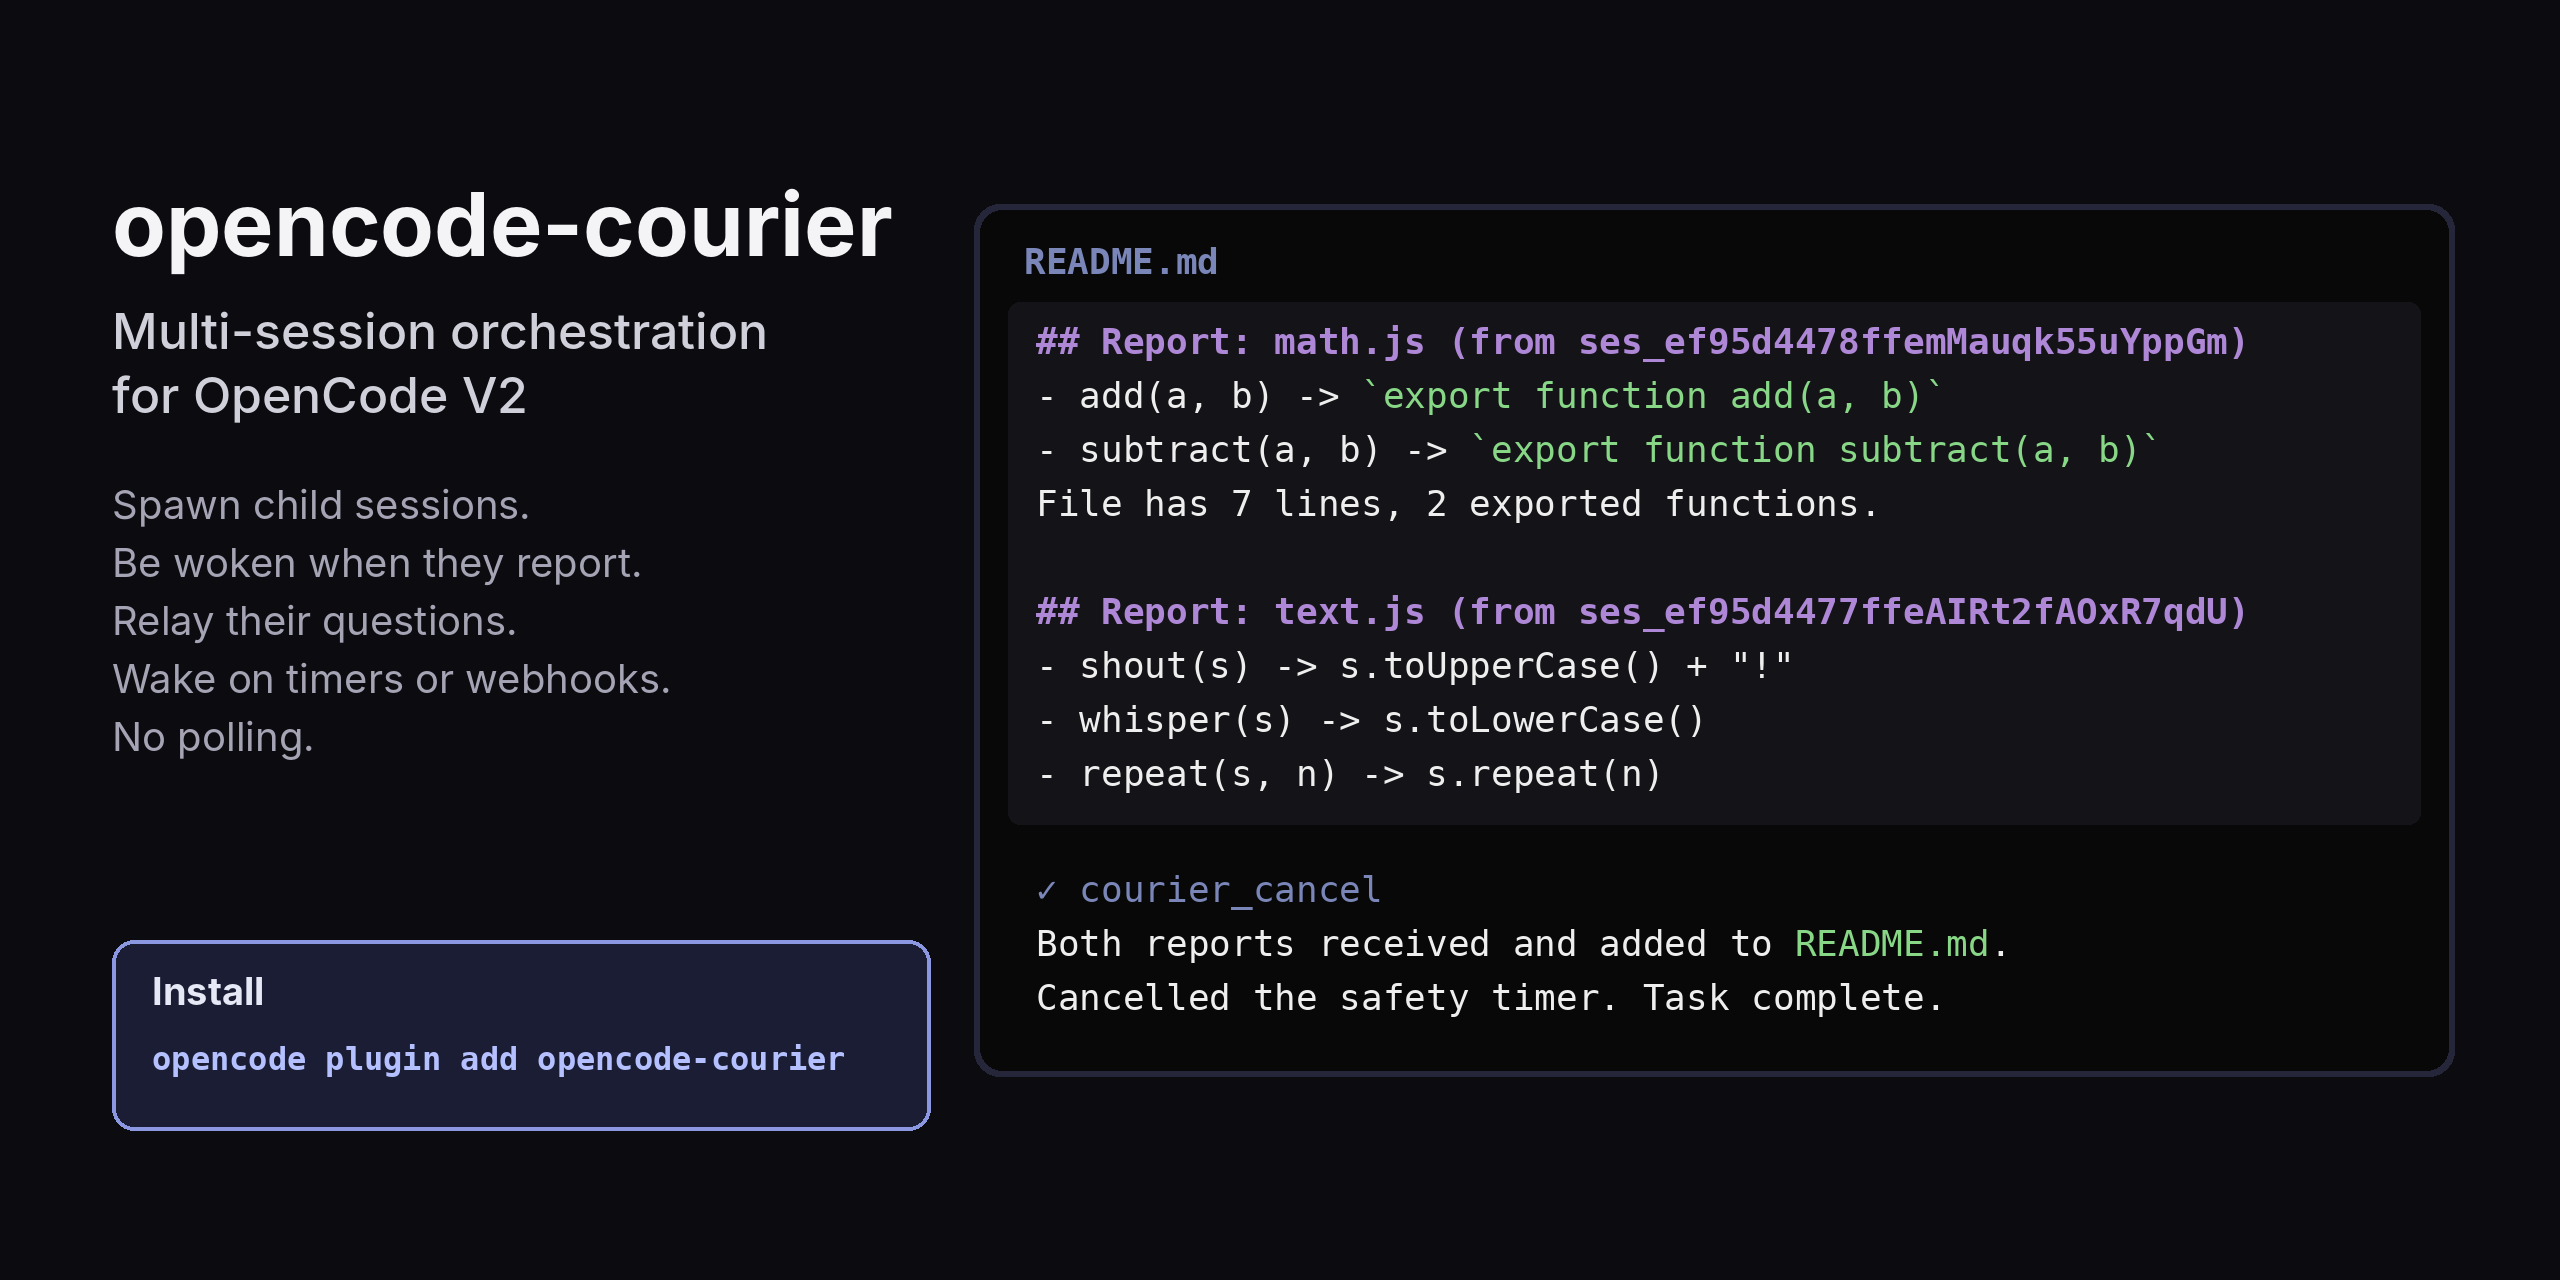
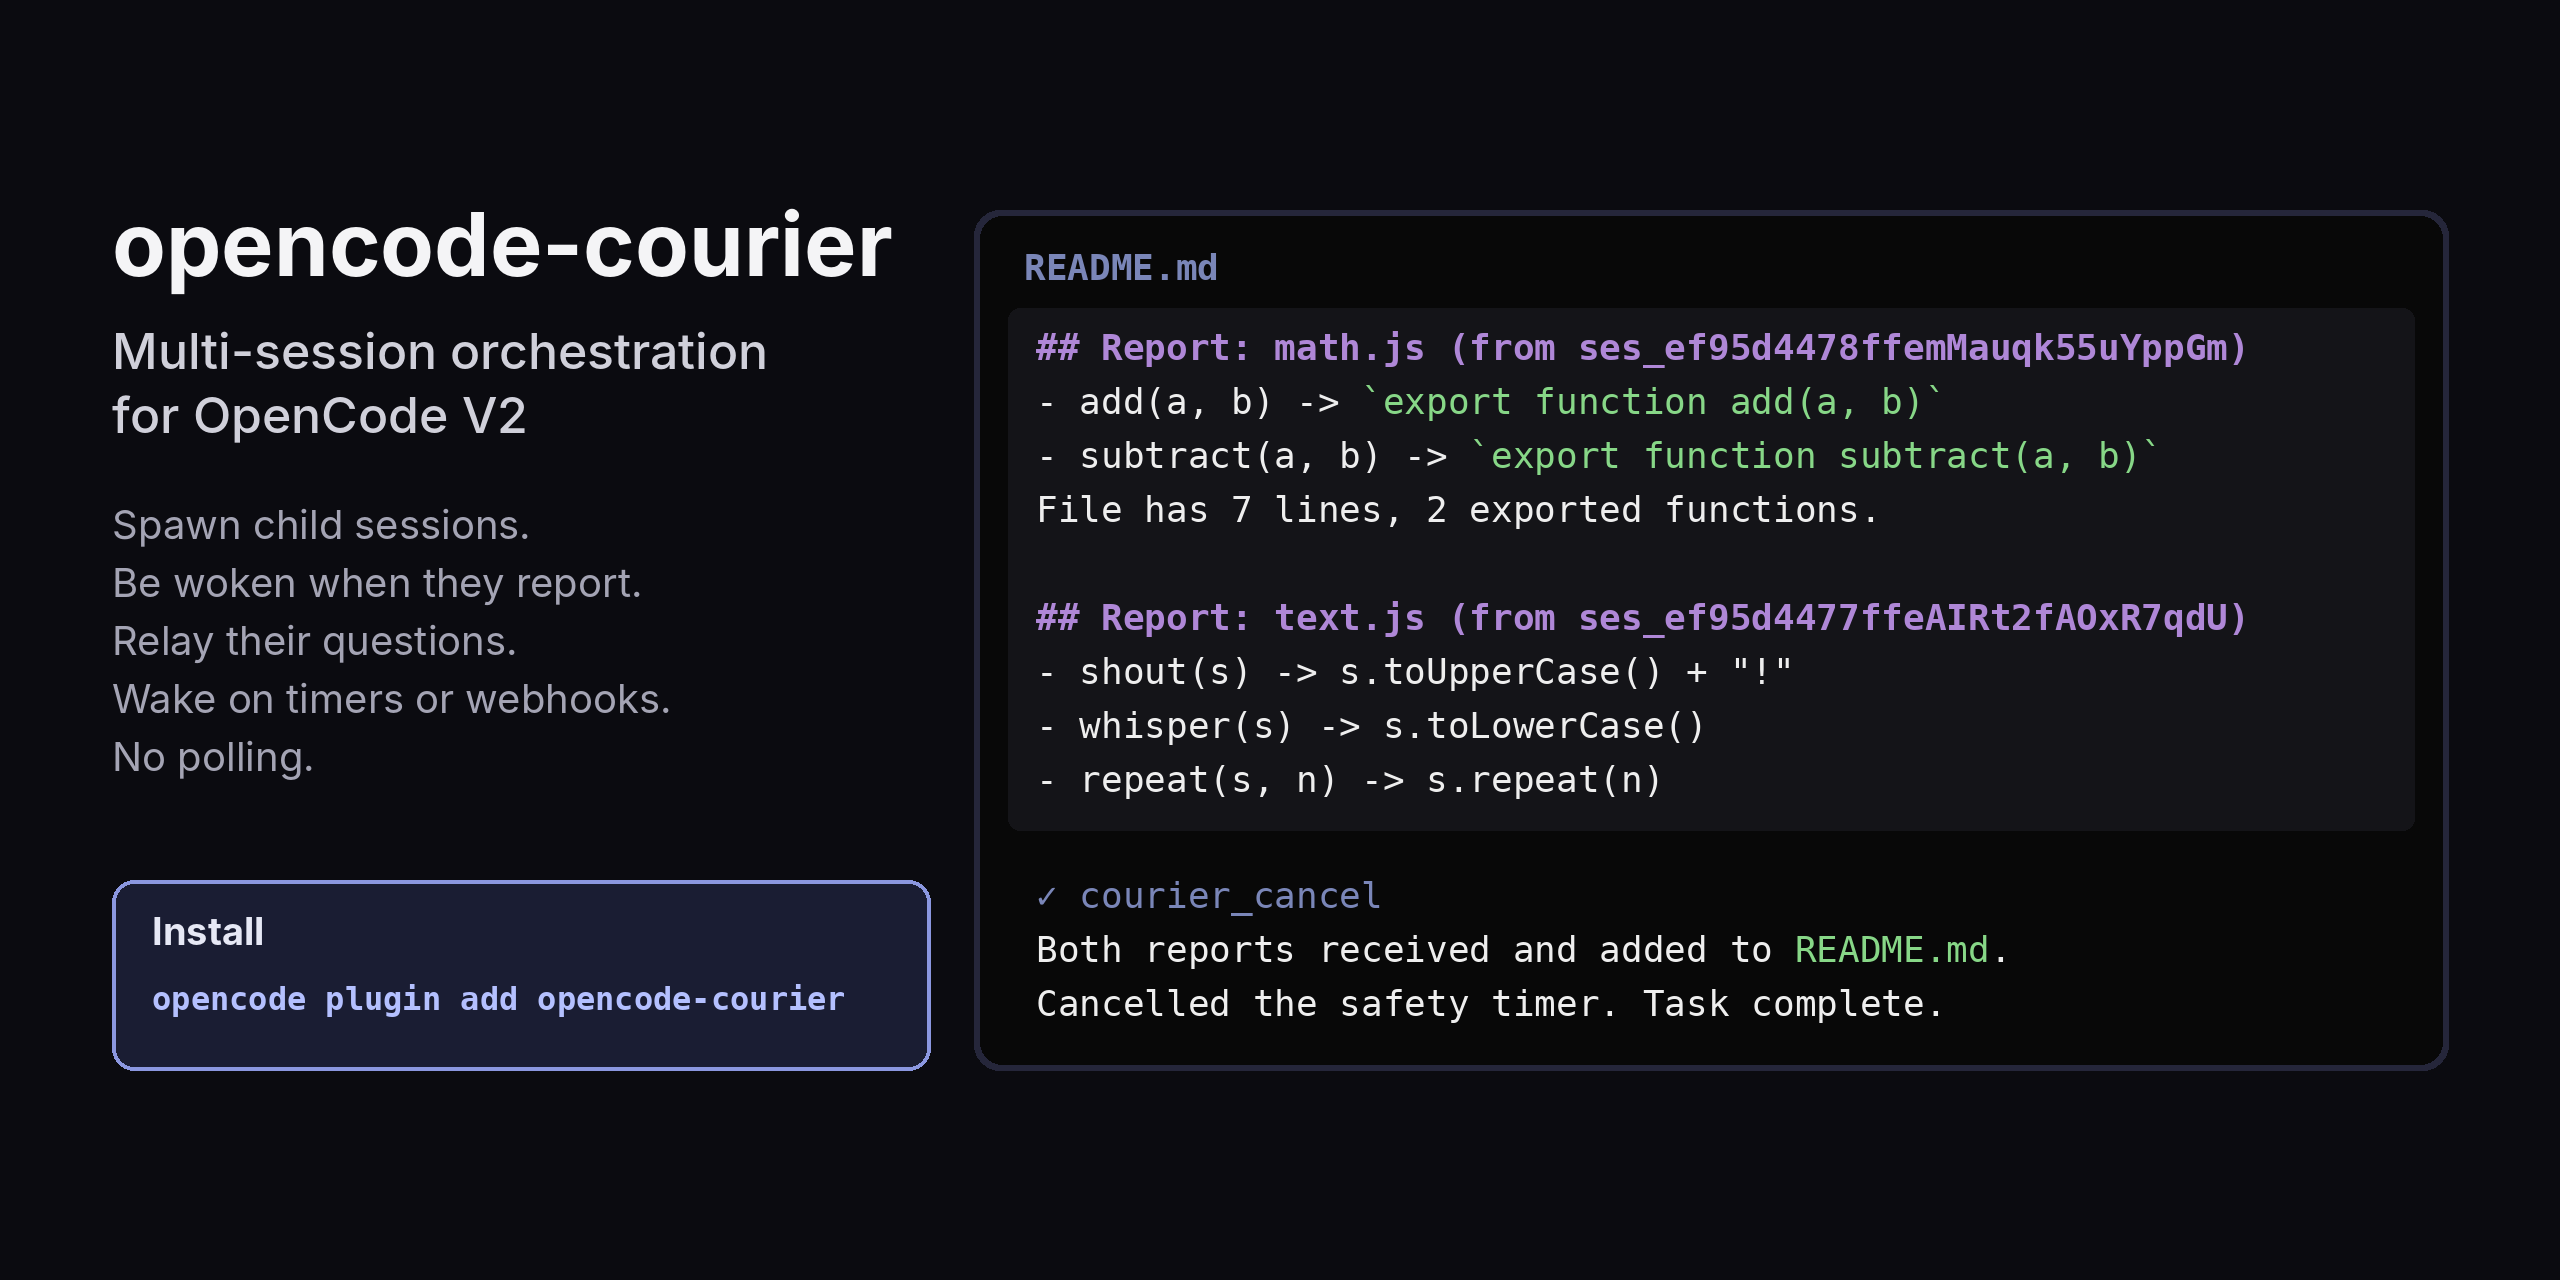
Size the preview's report box from its rows, default the output path, align the columns
Review round: the README box height is computed from its rows, overflow
is checked per row and at the bottom without assert (which -O strips),
the output path defaults to docs/social-preview.png, both side margins
are 112 px, and the left column shares the terminal panel's top and
bottom edges.

Claude-Session: https://claude.ai/code/session_01T5SS1F5XYZou9jUz3ZHfgR

diff --git a/docs/social-preview.py b/docs/social-preview.py
@@ -1,7 +1,7 @@
 # Renders docs/social-preview.png, the repository's suggested social preview, at 2x (2560x1280)
 # as real text rather than GIF pixels. Upload it under Settings > General > Social preview.
 #
-#   python3 docs/social-preview.py docs/social-preview.png
+#   python3 docs/social-preview.py [out.png]    (default: docs/social-preview.png)
 #
 # Needs Pillow and the Inter and DejaVu Sans Mono fonts at the paths below (Debian/Ubuntu:
 # fonts-inter, fonts-dejavu-core). Keep the tagline in step with package.json's description.
@@ -15,46 +15,13 @@ MONO = "/usr/share/fonts/truetype/dejavu/DejaVuSansMono.ttf"
 MONO_B = "/usr/share/fonts/truetype/dejavu/DejaVuSansMono-Bold.ttf"
 f = lambda w, s: ImageFont.truetype(INTER.format(w), s)
 
-TEXT, GREEN, PURPLE, MUTED, BLUE = "#eeeeee", "#87d787", "#af87d7", "#7a86b8", "#5fafff"
+TEXT, GREEN, PURPLE, MUTED = "#eeeeee", "#87d787", "#af87d7", "#7a86b8"
 
-im = Image.new("RGB", (W, H), BG)
-d = ImageDraw.Draw(im)
+# Everything stays 112 px (56 px at 1x) from both side edges, so a centre crop to 1.91:1
+# (2444x1280) loses nothing. The left column and the terminal panel share a top and a bottom.
+MARGIN, TOP, BOTTOM = 112, 210, 1070
 
-# Left column. Everything stays >= 112 px (56 px at 1x) from the side edges,
-# so a centre crop to 1.91:1 (2444x1280) loses nothing.
-X = 112
-d.text((X, 170), "opencode-courier", font=f("Bold", 88), fill="#f4f4f6")
-d.text((X, 300), "Multi-session orchestration", font=f("Medium", 50), fill="#d0d0da")
-d.text((X, 364), "for OpenCode V2", font=f("Medium", 50), fill="#d0d0da")
-y = 480
-for line in ["Spawn child sessions.", "Be woken when they report.", "Relay their questions.",
-             "Wake on timers or webhooks.", "No polling."]:
-    d.text((X, y), line, font=f("Regular", 40), fill="#a4a4b4")
-    y += 58
-
-# Call to action.
-d.rounded_rectangle((X, 940, 930, 1130), radius=22, fill="#1a1d33", outline="#8b97e0", width=4)
-d.text((X + 40, 968), "Install", font=f("Bold", 38), fill="#e6e8f5")
-d.text((X + 40, 1040), "opencode plugin add opencode-courier", font=ImageFont.truetype(MONO_B, 32), fill="#b4c0ff")
-
-# Terminal panel, redrawn from the last frame of docs/demo-async-tui.gif.
-PX0, PY0, PX1, PY1 = 980, 210, 2448, 1070
-d.rounded_rectangle((PX0 - 6, PY0 - 6, PX1 + 6, PY1 + 6), radius=26, fill="#25263a")
-d.rounded_rectangle((PX0, PY0, PX1, PY1), radius=22, fill="#080808")
-mono, monob = ImageFont.truetype(MONO, 36), ImageFont.truetype(MONO_B, 36)
-LH = 54
-d.text((PX0 + 44, PY0 + 30), "README.md", font=monob, fill=MUTED)
-d.rounded_rectangle((PX0 + 28, PY0 + 92, PX1 - 28, PY0 + 92 + 9 * LH + 36), radius=12, fill="#141418")
-
-def row(y, spans):
-    x = PX0 + 56
-    for text, colour, bold in spans:
-        font = monob if bold else mono
-        d.text((x, y), text, font=font, fill=colour)
-        x += d.textlength(text, font=font)
-
-y = PY0 + 110
-for spans in [
+README_ROWS = [
     [("## Report: math.js (from ses_ef95d4478ffemMauqk55uYppGm)", PURPLE, True)],
     [("- add(a, b) -> ", TEXT, False), ("`export function add(a, b)`", GREEN, False)],
     [("- subtract(a, b) -> ", TEXT, False), ("`export function subtract(a, b)`", GREEN, False)],
@@ -64,17 +31,59 @@ for spans in [
     [("- shout(s) -> s.toUpperCase() + \"!\"", TEXT, False)],
     [("- whisper(s) -> s.toLowerCase()", TEXT, False)],
     [("- repeat(s, n) -> s.repeat(n)", TEXT, False)],
-]:
+]
+REPLY_ROWS = [
+    [("\u2713 courier_cancel", MUTED, False)],
+    [("Both reports received and added to ", TEXT, False), ("README.md", GREEN, False), (".", TEXT, False)],
+    [("Cancelled the safety timer. Task complete.", TEXT, False)],
+]
+
+im = Image.new("RGB", (W, H), BG)
+d = ImageDraw.Draw(im)
+
+# Left column: name, tagline, points, and the install call to action at the bottom.
+X = MARGIN
+d.text((X, TOP - 20), "opencode-courier", font=f("Bold", 88), fill="#f4f4f6")
+d.text((X, TOP + 110), "Multi-session orchestration", font=f("Medium", 50), fill="#d0d0da")
+d.text((X, TOP + 174), "for OpenCode V2", font=f("Medium", 50), fill="#d0d0da")
+y = TOP + 290
+for line in ["Spawn child sessions.", "Be woken when they report.", "Relay their questions.",
+             "Wake on timers or webhooks.", "No polling."]:
+    d.text((X, y), line, font=f("Regular", 40), fill="#a4a4b4")
+    y += 58
+d.rounded_rectangle((X, BOTTOM - 190, 930, BOTTOM), radius=22, fill="#1a1d33", outline="#8b97e0", width=4)
+d.text((X + 40, BOTTOM - 162), "Install", font=f("Bold", 38), fill="#e6e8f5")
+d.text((X + 40, BOTTOM - 90), "opencode plugin add opencode-courier", font=ImageFont.truetype(MONO_B, 32), fill="#b4c0ff")
+
+# Terminal panel, redrawn from the last frame of docs/demo-async-tui.gif. Its 6 px frame ends
+# at the right margin.
+PX0, PY0, PX1, PY1 = 980, TOP + 6, W - MARGIN - 6, BOTTOM - 6
+d.rounded_rectangle((PX0 - 6, PY0 - 6, PX1 + 6, PY1 + 6), radius=26, fill="#25263a")
+d.rounded_rectangle((PX0, PY0, PX1, PY1), radius=22, fill="#080808")
+mono, monob = ImageFont.truetype(MONO, 36), ImageFont.truetype(MONO_B, 36)
+LH = 54
+d.text((PX0 + 44, PY0 + 30), "README.md", font=monob, fill=MUTED)
+README_TOP = PY0 + 92
+d.rounded_rectangle((PX0 + 28, README_TOP, PX1 - 28, README_TOP + len(README_ROWS) * LH + 36), radius=12, fill="#141418")
+
+def row(y, spans):
+    x = PX0 + 56
+    for text, colour, bold in spans:
+        font = monob if bold else mono
+        d.text((x, y), text, font=font, fill=colour)
+        x += d.textlength(text, font=font)
+        if x > PX1 - 40:
+            raise SystemExit(f"row runs past the panel: {text!r}")
+
+y = README_TOP + 18
+for spans in README_ROWS:
     row(y, spans)
     y += LH
 y += 62
-for spans in [
-    [("✓ courier_cancel", MUTED, False)],
-    [("Both reports received and added to ", TEXT, False), ("README.md", GREEN, False), (".", TEXT, False)],
-    [("Cancelled the safety timer. Task complete.", TEXT, False)],
-]:
+for spans in REPLY_ROWS:
     row(y, spans)
     y += LH
-assert y <= PY1 - 20, y
+if y > PY1 - 20:
+    raise SystemExit(f"text runs past the bottom of the panel ({y} > {PY1 - 20})")
 
-im.save(sys.argv[1], optimize=True)
+im.save(sys.argv[1] if len(sys.argv) > 1 else "docs/social-preview.png", optimize=True)
